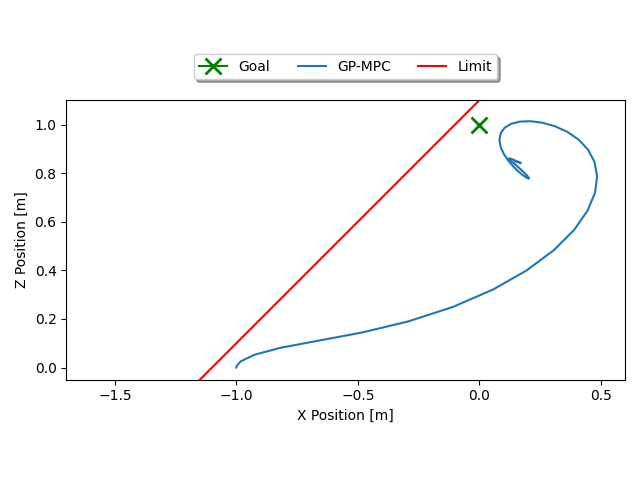
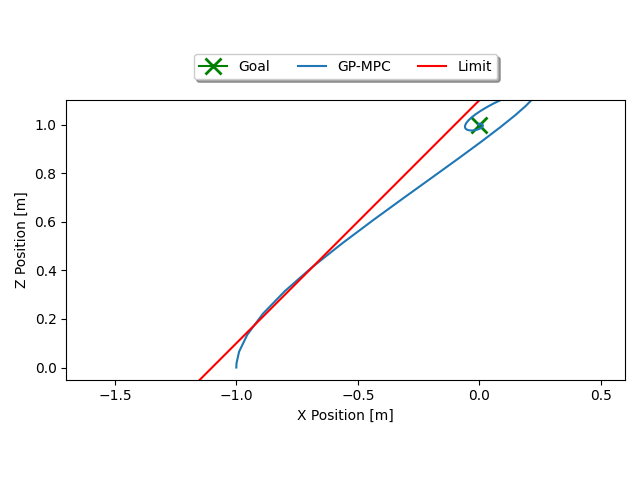
corrected for linear dynamics + adpatation starting to work

diff --git a/safe_control_gym/controllers/mpc/foresee_cbf_qp.py b/safe_control_gym/controllers/mpc/foresee_cbf_qp.py
@@ -130,9 +130,9 @@ class FORESEE_CBF_QP(MPC):
             **kwargs)
         
         # Setup controller parameters
-        kx = 0.09 #0.2 #0.1 #0.5 # Attarction
-        kv = 0.05 #0.20000002#  0.3 # Attraction
-        krx = 0.8 # Repulsion
+        kx = 0.09 #0.06 #0.09 #0.2 #0.1 #0.5 # Attarction
+        kv = 0.05 #0.1 #0.05 #0.20000002#  0.3 # Attraction
+        krx = 0 #0.4 #0.8 # Repulsion
         kR = 60.0
         kRv = 10.0
         # krv = 1.0 # Repulsion
@@ -144,7 +144,7 @@ class FORESEE_CBF_QP(MPC):
         # kT20 = 5.0
      
 
-        self.params = jnp.array([ kx, kv, krx, kR, kRv ])
+        self.params = np.array([ kx, kv, krx, kR, kRv ])
 
 
         # Setup environments.
@@ -415,18 +415,19 @@ class FORESEE_CBF_QP(MPC):
             # print(f"action: {action}")
             # action = 0.2 * jnp.tanh(action)
 
-            print(f"theta: {X[4,0]}, thetad: {theta_d}")
+            # print(f"theta: {X[4,0]}, thetad: {theta_d}")
 
             return action
        
     def setup_predict(self, T): #, X, T, A, B, x_eq, u_eq):
+            
+            dt = self.dt
 
-            # @jit
+            @jit
             def predict_future(params, X, A, B, x_eq, u_eq, X_GOAL, consA, consb):             
                 states = jnp.zeros((6, T+1))
                 states = states.at[:,0].set( X[:,0] )
                 actions = jnp.zeros((2, T))
-
                 # for i in range(T):
                 #     u = FORESEE_CBF_QP.controller(params, states[:,i].reshape(-1,1), X_GOAL, consA, consb).reshape(-1,1)
                 #     z = jnp.append( states[:,i].reshape(-1,1), u, axis=0 )
@@ -443,7 +444,7 @@ class FORESEE_CBF_QP(MPC):
                     u = FORESEE_CBF_QP.controller(params, states[:,i].reshape(-1,1), X_GOAL, consA, consb).reshape(-1,1)
                     z = jnp.append( states[:,i].reshape(-1,1), u, axis=0 )
                     pred_mu, pred_cov = self.gaussian_process.jax_predict(z=z)
-                    next_state = A @ (states[:,i].reshape(-1,1) - x_eq) + B @ (u - u_eq) + x_eq + pred_mu
+                    next_state = (A @ (states[:,i].reshape(-1,1) - x_eq) + B @ (u - u_eq))*dt + x_eq  + dt + pred_mu
                     states = states.at[:,i+1].set( next_state[:,0 ] )
                     actions = actions.at[:,i].set( u[:,0] )
                     return states, actions        
@@ -452,8 +453,13 @@ class FORESEE_CBF_QP(MPC):
     
     @staticmethod
     def reward(Xs, x_goal):
-        # return jnp.sum( jnp.square(Xs[0,:]-x_goal[0,0]) )
-        return jnp.sum( jnp.square(Xs[2,-1]-x_goal[2,0]) ) #+ jnp.sum( jnp.square(Xs[0,-1]-x_goal[0,0]) )
+        scale = 1.0
+        pos_error = 2 * ( jnp.sum( jnp.square(scale * (Xs[0,:]-x_goal[0,0]) ) ) + jnp.sum( jnp.square(scale * (Xs[2,:]-x_goal[1,0]) ) ) )
+        pos_error_terminal = 8 * ( jnp.sum( jnp.square(scale * (Xs[0,-1]-x_goal[0,0]))  ) + jnp.sum( jnp.square(scale * (Xs[2,-1]-x_goal[1,0]) ) ) )
+        vel_error = 3000 * ( jnp.sum( jnp.square( scale * Xs[1,:]) ) + jnp.sum( jnp.square(scale * Xs[2,:]) ) )
+        # theta_error = 1 * jnp.sum( jnp.square(scale * (Xs[4,:]-x_goal[4,0]) ) )
+        return pos_error + vel_error  + pos_error_terminal #+ theta_error
+        
 
 
 
@@ -462,7 +468,7 @@ class FORESEE_CBF_QP(MPC):
 
         """
 
-        FORESEE_CBF_QP.predict = self.setup_predict(8)#self.T)
+        FORESEE_CBF_QP.predict = self.setup_predict(70)#self.T)
 
         FORESEE_CBF_QP.reward_func = lambda params, X, A, B, x_eq, u_eq, X_GOAL, consA, consb: FORESEE_CBF_QP.reward( FORESEE_CBF_QP.predict(params, X, A, B, x_eq, u_eq, X_GOAL, consA, consb)[0], X_GOAL )
 
@@ -487,11 +493,13 @@ class FORESEE_CBF_QP(MPC):
          """
         
         print(f"time step: {self.dt}")
+        x_goal = self.env.X_GOAL.reshape(-1,1) #jnp.array([-1.0, 0.0]).reshape(-1,1)  #jnp.array([-0.7, 0.5]).reshape(-1,1)  # 
         # Select current action
         z = jnp.append( obs.reshape(-1,1), jnp.zeros((2,1)), axis=0 )
         self.gaussian_process.jax_predict(z=z)     
-        action = FORESEE_CBF_QP.controller(self.params, obs.reshape(-1,1), self.env.X_GOAL.reshape(-1,1), self.constraints.state_constraints[1].A, self.constraints.state_constraints[1].b)
-
+        action = FORESEE_CBF_QP.controller(self.params, obs.reshape(-1,1), x_goal, self.constraints.state_constraints[1].A, self.constraints.state_constraints[1].b)
+        
+        
         # Update parameters
         nx, nu = self.model.nx, self.model.nu
         T = self.T
@@ -500,21 +508,35 @@ class FORESEE_CBF_QP(MPC):
         x_eq = self.prior_ctrl.X_LIN[:,None].reshape(-1,1)
         u_eq = self.prior_ctrl.U_LIN[:,None].reshape(-1,1)
 
+        # print(f"A; {A} \n B:{B}, \n x_eq: {x_eq}, \n u_eq: {u_eq}")
+        # exit()
+        
+        reward, grads = FORESEE_CBF_QP.predict_grad( jnp.copy(self.params), obs.reshape(-1,1), A, B, x_eq, u_eq, x_goal, self.constraints.state_constraints[1].A, self.constraints.state_constraints[1].b )
+        print(f"rewards: {reward}, gras:{grads}")
+
+
+        
+
         t0 = time.time()
         
 
-        # num_iterations = 1
-        # print(f"HELLOOOOOOOOOOOOOOOOOOOOOOOOOOOOOOOOOOOOOOOOOOOOO")
-        # for i in range(num_iterations):
-        #     states, actions = FORESEE_CBF_QP.predict(self.params, obs.reshape(-1,1), A, B, x_eq, u_eq, self.env.X_GOAL.reshape(-1,1), self.constraints.state_constraints[1].A, self.constraints.state_constraints[1].b)
-        #     reward, grads = FORESEE_CBF_QP.predict_grad( jnp.copy(self.params), obs.reshape(-1,1), A, B, x_eq, u_eq, self.env.X_GOAL.reshape(-1,1), self.constraints.state_constraints[1].A, self.constraints.state_constraints[1].b )
-        #     # print(f"reward: {reward}, grad: {grads}")
-        #     pdb.set_trace()
-        #     self.params = self.params - 0.1 * jnp.clip( grads, -1.0, 1.0 )
-        # print(f"************************************************* time: {time.time()-t0} *********************************************")
-        # print(f"*************** params: {self.params}")
+        num_iterations = 10
+        print(f"HELLOOOOOOOOOOOOOOOOOOOOOOOOOOOOOOOOOOOOOOOOOOOOO")
+        for i in range(num_iterations):
+            states, actions = FORESEE_CBF_QP.predict(jnp.copy(self.params), obs.reshape(-1,1), A, B, x_eq, u_eq, x_goal, self.constraints.state_constraints[1].A, self.constraints.state_constraints[1].b)
+            reward, grads = FORESEE_CBF_QP.predict_grad( jnp.copy(self.params), obs.reshape(-1,1), A, B, x_eq, u_eq, x_goal, self.constraints.state_constraints[1].A, self.constraints.state_constraints[1].b )
+            print(f"reward: {reward}, grad: {grads}")
+            # exit()
+            # pdb.set_trace()
+            grads = np.asarray(grads)
+            lr = 0.0001 # unstable with 0.001. need atleast 0.0001
+            self.params[0] = np.clip( self.params[0] - lr * np.clip( grads[0], -1.0, 1.0 ), 0.0, None )
+            self.params[1] = np.clip( self.params[1] - lr * np.clip( grads[1], -1.0, 1.0 ), 0.0, None )
+            # self.params[2] = np.clip( self.params[2] - 0.001 * np.clip( grads[2], -1.0, 1.0 ), 0.0, None )
+        print(f"************************************************* time: {time.time()-t0} *********************************************")
+        print(f"*************** params: {self.params}")
         
-        return action         
+        return action, jnp.copy(self.params)         
 
     def learn(self,
               input_data=None,
@@ -710,12 +732,12 @@ class FORESEE_CBF_QP(MPC):
                 print("[ERROR]: Not yet supported.")
                 exit()
             t1 = time.perf_counter()
-            action = self.select_action_with_gp(obs)
+            action, params = self.select_action_with_gp(obs)
             t2 = time.perf_counter()
             print("GP SELECT ACTION TIME: %s" %(t2 - t1))
             self.last_obs = obs
             self.last_action = action
-        return action
+        return action, params
 
     def close(self):
         """Clean up.

diff --git a/experiments/annual_reviews/figure6/gp_mpc_experiment.py b/experiments/annual_reviews/figure6/gp_mpc_experiment.py
@@ -16,6 +16,18 @@ from functools import partial
 from safe_control_gym.utils.registration import make
 from safe_control_gym.utils.configuration import ConfigFactory
 
+import jax.numpy as jnp
+
+import pdb
+
+def reward(Xs, x_goal):
+    scale = 0.00001
+    pos_error = 20 * ( jnp.sum( jnp.square(scale * (Xs[0,:]-x_goal[0,0]) ) ) + jnp.sum( jnp.square(scale * (Xs[2,:]-x_goal[2,0]) ) ) )
+    pos_error_terminal = 80 * ( jnp.sum( jnp.square(scale * (Xs[0,-1]-x_goal[0,0]))  ) + jnp.sum( jnp.square(scale * (Xs[2,-1]-x_goal[1,0]) ) ) )
+    vel_error = 2 * ( jnp.sum( jnp.square( scale * Xs[1,:]) ) + jnp.sum( jnp.square(scale * Xs[2,:]) ) )
+    # theta_error = 1 * jnp.sum( jnp.square(scale * (Xs[4,:]-x_goal[4,0]) ) )
+    return pos_error + vel_error  + pos_error_terminal #+ theta_error
+
 
 def plot_xz_comparison_diag_constraint(prior_run,
                                        run,
@@ -43,8 +55,12 @@ def plot_xz_comparison_diag_constraint(prior_run,
     plt.tight_layout()
     plt.savefig(dir+"comparison.png")
 
+    x_goal = jnp.array([-0.7, 0.5]).reshape(-1,1)
+    rewards = reward( run.obs.T, x_goal )
+
     fig2, ax2 = plt.subplots()
-    ax2.plot( run.obs[:,4], 'k*-' )
+    ax2.plot( run.obs[:,4], 'k*-', label=r'$\theta$' )
+    ax2.legend()
 
     fig3, ax3 = plt.subplots()
     ax3.plot( run.action[:,0], 'r-*', label='T1' )
@@ -55,6 +71,19 @@ def plot_xz_comparison_diag_constraint(prior_run,
     ax4.plot( run.obs[:,0], 'r-*', label='x' )
     ax4.plot( run.obs[:,2], 'b-*', label='z' )
     ax4.legend()
+
+    # pdb.set_trace()
+    fig5, ax5 = plt.subplots()
+    ax5.plot( run.params[:,0], 'r-*', label='kx' )
+    ax5.plot( run.params[:,1], 'b-*', label='kv' )
+    ax5.plot( run.params[:,2], 'c-*', label='krx' )
+    # ax5.plot( run.params[:,3], 'm-*', label='kR' )
+    # ax5.plot( run.params[:,4], 'k-*', label='kRv' )
+    ax5.legend()
+
+    fig6, ax6 = plt.subplots()
+    ax6.plot( rewards, 'r-*', label='reward' )
+    ax6.legend()
 
 
 def plot_2D_comparison_with_prior(state_inds,
@@ -204,7 +233,7 @@ if __name__ == "__main__":
         # Run with the learned gp model.
 
         run_results = ctrl.run(env=test_env,
-                               max_steps=70)  #50)
+                               max_steps=150)  #50)
         ctrl.close()
         # Plot the results.
         prior_run = munch.munchify(prior_results)

diff --git a/safe_control_gym/controllers/mpc/mpc.py b/safe_control_gym/controllers/mpc/mpc.py
@@ -287,7 +287,8 @@ class MPC(BaseController):
                               'info': [],
                               'action': [],
                               'horizon_inputs': [],
-                              'horizon_states': []
+                              'horizon_states': [],
+                              'params': []
         }
 
     def run(self,
@@ -326,17 +327,20 @@ class MPC(BaseController):
             raise("Undefined Task")
         self.terminate_loop = False
         while np.linalg.norm(obs - env.X_GOAL) > 1e-3 and i < MAX_STEPS and not(self.terminate_loop):
-            action = self.select_action(obs)
+            action, params = self.select_action(obs)
+            # action = self.select_action(obs)
             if self.terminate_loop:
                 print("Infeasible MPC Problem")
                 break
             # Repeat input for more efficient control.
+            # pdb.set_trace()
             obs, reward, done, info = env.step(action)
             self.results_dict['obs'].append(obs)
             self.results_dict['reward'].append(reward)
             self.results_dict['done'].append(done)
             self.results_dict['info'].append(info)
             self.results_dict['action'].append(action)
+            self.results_dict['params'].append(params)
             print(i, '-th step.')
             print(f"action: {action}")
             print(f"obs: {obs}")
@@ -358,6 +362,7 @@ class MPC(BaseController):
                 ep_lengths.mean(), ep_lengths.std(), ep_returns.mean(),
                 ep_returns.std())
         self.results_dict['obs'] = np.vstack(self.results_dict['obs'])
+        self.results_dict['params'] = np.vstack(self.results_dict['params'])
         try:
             self.results_dict['reward'] = np.vstack(self.results_dict['reward'])
             self.results_dict['action'] = np.vstack(self.results_dict['action'])

diff --git a/safe_control_gym/controllers/mpc/linear_mpc.py b/safe_control_gym/controllers/mpc/linear_mpc.py
@@ -195,7 +195,7 @@ class LinearMPC(MPC):
             return_status = opti.return_status()
             if return_status == 'unknown':
                 self.terminate_loop = True
-                return None
+                return None, np.zeros(5)
             elif return_status == 'Maximum_Iterations_Exceeded':
                 self.terminate_loop = True
                 u_val = opti.debug.value(u_var)
@@ -206,4 +206,4 @@ class LinearMPC(MPC):
             action = np.array([u_val[0]])
         action += self.U_LIN
         self.prev_action = action
-        return action
+        return action, np.zeros(5)
